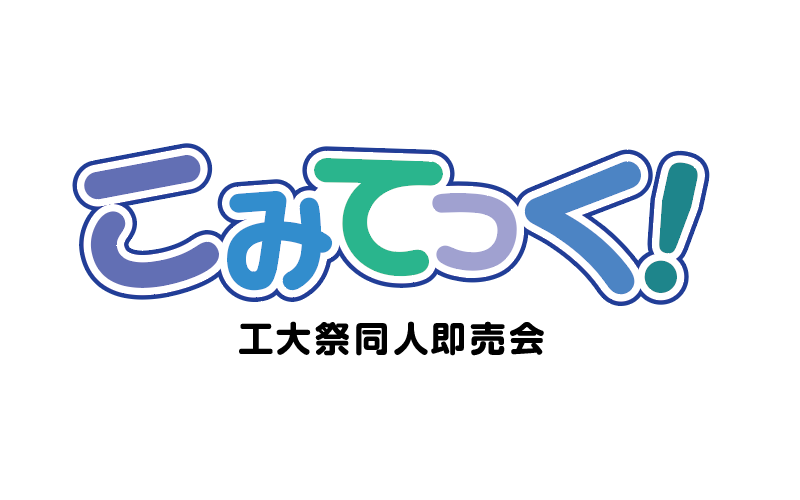
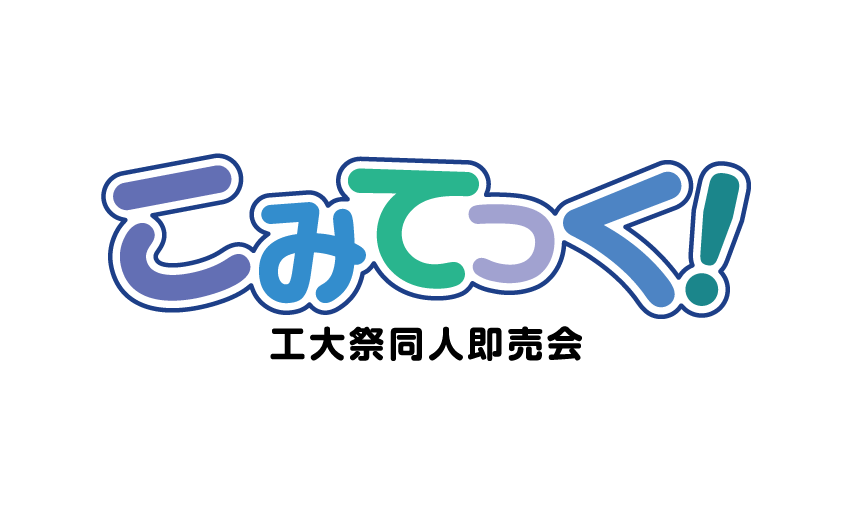
ver1.0.2 logo類の修正

Changed region(s): [[0.0625, 0.27, 0.9062, 0.72]]

diff --git a/docs/404.html b/docs/404.html
@@ -38,7 +38,7 @@
             <!-- ヘッダー -->
             <header>
                 <a href="https://comitech-official.github.io" id="site_title">
-                    <img src="https://comitech-official.github.io/public/images/logo.png" alt="工大祭同人即売会「こみてっく！」ロゴ" width="240" height="80">
+                    <img src="https://comitech-official.github.io/public/images/logo.png" alt="工大祭同人即売会「こみてっく！」ロゴ" width="240" height="90">
                 </a>
                 
                 <input type="checkbox" id="nav_button">

diff --git a/docs/contact.html b/docs/contact.html
@@ -36,7 +36,7 @@
             <!-- ヘッダー -->
             <header>
                 <a href="https://comitech-official.github.io" id="site_title">
-                    <img src="https://comitech-official.github.io/public/images/logo.png" alt="工大祭同人即売会「こみてっく！」ロゴ" width="240" height="80">
+                    <img src="https://comitech-official.github.io/public/images/logo.png" alt="工大祭同人即売会「こみてっく！」ロゴ" width="240" height="90">
                 </a>
                 
                 <input type="checkbox" id="nav_button">

diff --git a/docs/index.html b/docs/index.html
@@ -36,7 +36,7 @@
             <!-- ヘッダー -->
             <header>
                 <a href="https://comitech-official.github.io" id="site_title">
-                    <img src="https://comitech-official.github.io/public/images/logo.png" alt="工大祭同人即売会「こみてっく！」ロゴ" width="240" height="80">
+                    <img src="https://comitech-official.github.io/public/images/logo.png" alt="工大祭同人即売会「こみてっく！」ロゴ" width="240" height="90">
                 </a>
                 
                 <input type="checkbox" id="nav_button">

diff --git a/docs/staff.html b/docs/staff.html
@@ -36,7 +36,7 @@
             <!-- ヘッダー -->
             <header>
                 <a href="https://comitech-official.github.io" id="site_title">
-                    <img src="https://comitech-official.github.io/public/images/logo.png" alt="工大祭同人即売会「こみてっく！」ロゴ" width="240" height="80">
+                    <img src="https://comitech-official.github.io/public/images/logo.png" alt="工大祭同人即売会「こみてっく！」ロゴ" width="240" height="90">
                 </a>
                 
                 <input type="checkbox" id="nav_button">
